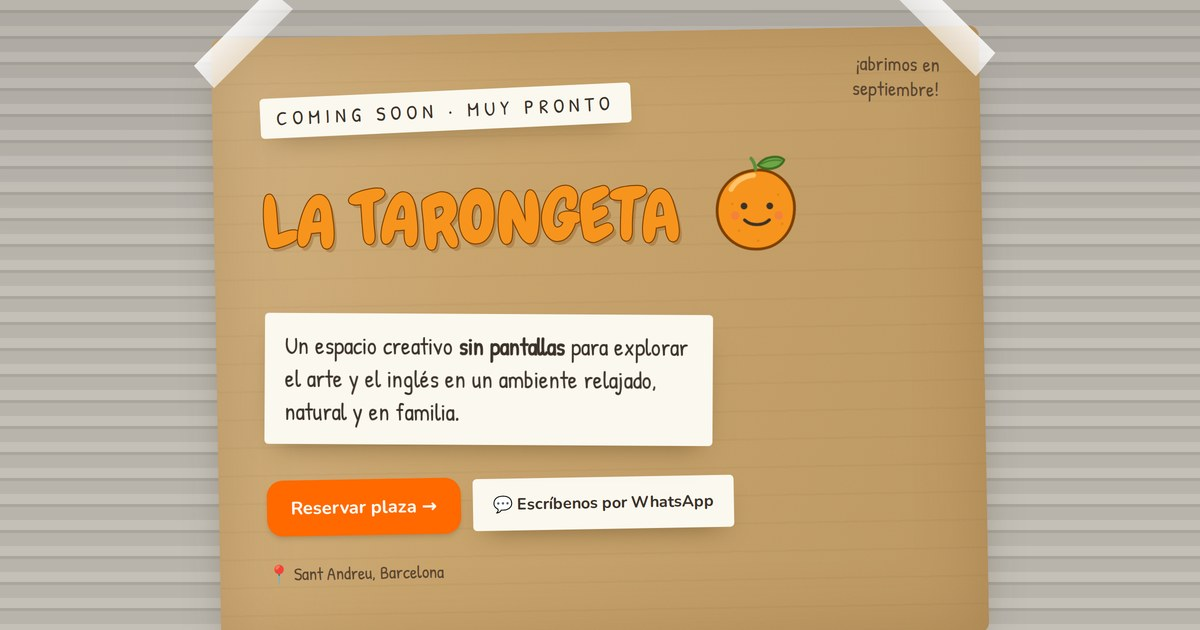
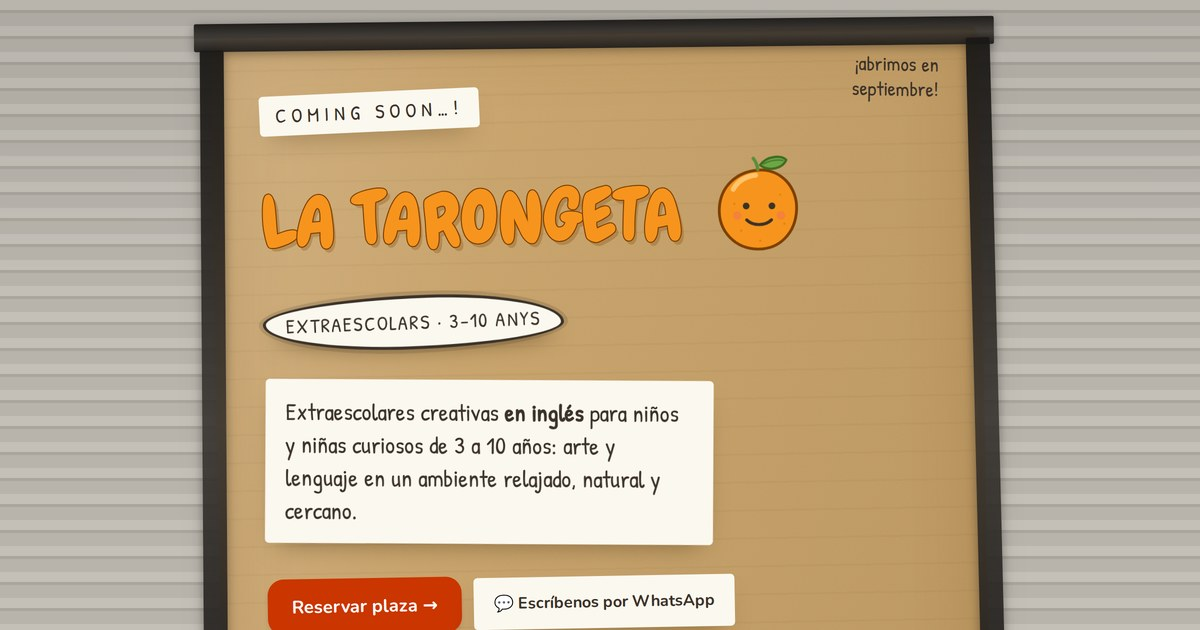
Align site with the real poster text and design
A legible photo of the sign corrects earlier guesses: La Tarongeta is a
process-based creative workshop (extraescolars, ages 3-10) and the sign
is bilingual English/Catalan. Update the four poster notes to the
verbatim EN/CA texts with lang attributes, drop the invented
"sin pantallas" claims, add the "Extraescolars 3-10 anys" cloud and the
black gaffer-tape frame from the real sign, swap in the new poster
photo, mention the founder, fix the form's age range to 3-10, and
refresh metadata and the OG image.

Claude-Session: https://claude.ai/code/session_01W1bpW2mJ2HdKfc9aUuqVCc

Changed region(s): [[0.1542, 0.0, 0.8633, 1.0]]

diff --git a/app/src/app/page.tsx b/app/src/app/page.tsx
@@ -94,14 +94,16 @@ function Hero() {
     <section className="shutter relative overflow-hidden">
       <div className="max-w-6xl mx-auto px-4 py-12 sm:py-20 flex justify-center">
         <div className="cardboard relative w-full max-w-3xl px-5 py-10 sm:px-12 sm:py-14 -rotate-1">
-          {/* packing tape on the corners */}
-          <div aria-hidden className="tape absolute -top-4 -left-6 w-28 h-8 -rotate-45" />
-          <div aria-hidden className="tape absolute -top-4 -right-6 w-28 h-8 rotate-45" />
+          {/* black gaffer tape framing the sign, like the real one */}
+          <div aria-hidden className="tape-black absolute -top-3 -left-4 -right-4 h-7 rotate-[0.4deg]" />
+          <div aria-hidden className="tape-black absolute -bottom-3 -left-4 -right-4 h-7 -rotate-[0.5deg]" />
+          <div aria-hidden className="tape-black absolute -left-3.5 top-3 bottom-3 w-6 rotate-[0.6deg]" />
+          <div aria-hidden className="tape-black absolute -right-3.5 top-3 bottom-3 w-6 -rotate-[0.4deg]" />
 
           {/* COMING SOON strip */}
           <div className="paper-note tilt-l inline-block px-3 sm:px-4 py-1.5">
             <p className="font-hand text-base sm:text-xl tracking-[0.18em] sm:tracking-[0.25em] uppercase whitespace-nowrap">
-              Coming soon · Muy pronto
+              Coming soon…!
             </p>
           </div>
 
@@ -134,12 +136,20 @@ function Hero() {
             <TarongetaMascot className="mascot-bob w-16 sm:w-28 shrink-0" />
           </div>
 
+          {/* extraescolars cloud, like the scribbled bubble on the sign */}
+          <p
+            lang="ca"
+            className="cloud-note font-hand inline-block mt-5 px-5 py-2.5 text-lg sm:text-xl uppercase tracking-[0.08em] -rotate-1"
+          >
+            Extraescolars · 3–10 anys
+          </p>
+
           {/* subtitle note */}
-          <div className="paper-note tilt-r max-w-md mt-8 sm:mt-10 px-5 py-4">
+          <div className="paper-note tilt-r max-w-md mt-6 sm:mt-8 px-5 py-4">
             <p className="font-hand text-xl sm:text-2xl leading-snug">
-              Un espacio creativo <strong>sin pantallas</strong> para explorar
-              el arte y el inglés en un ambiente relajado, natural y en
-              familia.
+              Extraescolares creativas <strong>en inglés</strong> para niños y
+              niñas curiosos de 3 a 10 años: arte y lenguaje en un ambiente
+              relajado, natural y cercano.
             </p>
           </div>
 
@@ -181,21 +191,23 @@ function PosterNotes() {
 
       <div className="grid md:grid-cols-[1fr_auto] gap-10 items-center">
         <div className="grid sm:grid-cols-2 gap-5">
-          <PosterNote>
-            A screen-free creative space where kids can explore art and
-            English in a relaxed, natural, English-speaking environment.
+          <PosterNote lang="en">
+            A process-based creative workshop space for curious kids to
+            explore art and language in a relaxed, natural, English-speaking
+            environment.
           </PosterNote>
-          <PosterNote yellow tiltClass="tilt-r">
-            Un espacio creativo sin pantallas donde los peques exploran el
-            arte y el inglés en un ambiente relajado, natural y cercano.
+          <PosterNote orange lang="ca" tiltClass="tilt-r">
+            Un espai creatiu basat en processos artístics perquè les
+            criatures curioses puguin explorar l&apos;art i el llenguatge en
+            un entorn relaxat, natural i de parla anglesa.
           </PosterNote>
-          <PosterNote tiltClass="tilt-r2">
-            Grupos reducidos acompañados con cariño: pintura, manualidades,
-            cuentos y mucho juego con materiales naturales.
+          <PosterNote lang="en" tiltClass="tilt-r2">
+            ✳ Opening in Sept ✳ Founded by native English-speaker,
+            experienced teacher, and practicing artist.
           </PosterNote>
-          <PosterNote yellow tiltClass="tilt-l2">
-            Tardes de lunes, miércoles y viernes en Sant Andreu. Reserva
-            fácil con Bizum y confirmación por WhatsApp.
+          <PosterNote orange lang="ca" tiltClass="tilt-l2">
+            Fundada el 2026 per una parlant nadiua d&apos;anglès, mestra
+            d&apos;infantil i artista.
           </PosterNote>
         </div>
 
@@ -219,19 +231,23 @@ function PosterNotes() {
 
 function PosterNote({
   children,
-  yellow = false,
+  orange = false,
+  lang,
   tiltClass = "tilt-l",
 }: {
   children: React.ReactNode;
-  yellow?: boolean;
+  orange?: boolean;
+  lang?: string;
   tiltClass?: string;
 }) {
   return (
     <div
-      className={`paper-note ${yellow ? "paper-note--yellow" : ""} ${tiltClass} relative px-5 py-5`}
+      className={`paper-note ${orange ? "paper-note--orange" : ""} ${tiltClass} relative px-5 py-5`}
     >
       <div aria-hidden className="tape absolute -top-3 left-1/2 -translate-x-1/2 w-16 h-5 rotate-2" />
-      <p className="font-hand text-lg sm:text-xl leading-snug">{children}</p>
+      <p lang={lang} className="font-hand text-lg sm:text-xl leading-snug">
+        {children}
+      </p>
     </div>
   );
 }
@@ -250,9 +266,9 @@ const ACTIVITIES = [
     text: "El inglés se vive jugando, cantando y creando, sin fichas ni exámenes.",
   },
   {
-    emoji: "🌿",
-    title: "Juego sin pantallas",
-    text: "Materiales naturales, juego libre y tiempo sin prisas ni móviles.",
+    emoji: "🖐",
+    title: "Proceso, no producto",
+    text: "Importa explorar, probar y mancharse las manos; el resultado es lo de menos.",
   },
   {
     emoji: "🧡",
@@ -406,6 +422,10 @@ function Visit() {
             <strong>Sant Andreu, Barcelona</strong>, con muchas ganas de abrir
             las puertas en septiembre.
           </p>
+          <p className="leading-relaxed mb-3">
+            Al frente está su fundadora: hablante nativa de inglés, maestra
+            de infantil con experiencia y artista en activo.
+          </p>
           <p className="leading-relaxed mb-6">
             ¿Quieres la dirección exacta, resolver dudas o simplemente
             saludar? Escríbenos y te contestamos enseguida.
@@ -433,7 +453,7 @@ function SiteFooter() {
         <div>
           <p className="font-display text-2xl text-orange-400">La Tarongeta</p>
           <p className="font-hand text-lg mt-1">
-            Espacio creativo en inglés
+            Extraescolares creativas en inglés · 3–10 años
             <br />
             Sant Andreu, Barcelona
           </p>

diff --git a/app/src/app/layout.tsx b/app/src/app/layout.tsx
@@ -29,15 +29,15 @@ const SITE_URL = "https://yaqtin.net/la-tarongeta";
 export const metadata: Metadata = {
   metadataBase: new URL(SITE_URL),
   title: {
-    default: "La Tarongeta · Espacio creativo en inglés para niños",
+    default: "La Tarongeta · Extraescolares creativas en inglés",
     template: "%s · La Tarongeta",
   },
   description:
-    "La Tarongeta es un espacio creativo sin pantallas en Sant Andreu, Barcelona: arte, juego e inglés en un ambiente relajado y natural. ¡Abrimos en septiembre!",
+    "La Tarongeta: extraescolares creativas en inglés en Sant Andreu, Barcelona. Talleres de arte basados en el proceso para niños y niñas curiosos de 3 a 10 años. ¡Abrimos en septiembre!",
   openGraph: {
-    title: "La Tarongeta · Espacio creativo en inglés para niños",
+    title: "La Tarongeta · Extraescolares creativas en inglés",
     description:
-      "Espacio creativo sin pantallas en Sant Andreu, Barcelona: arte, juego e inglés en un ambiente relajado y natural.",
+      "Extraescolares creativas en inglés en Sant Andreu, Barcelona: arte y lenguaje para peques de 3 a 10 años, en un ambiente relajado y natural.",
     url: SITE_URL,
     siteName: "La Tarongeta",
     images: [

diff --git a/app/src/app/reserva/page.tsx b/app/src/app/reserva/page.tsx
@@ -45,10 +45,10 @@ function validate(data: FormData): FormErrors {
   if (
     !data.childAge ||
     isNaN(Number(data.childAge)) ||
-    Number(data.childAge) < 1 ||
-    Number(data.childAge) > 17
+    Number(data.childAge) < 3 ||
+    Number(data.childAge) > 10
   ) {
-    errors.childAge = "Por favor, indica una edad válida (1–17 años).";
+    errors.childAge = "Por favor, indica una edad válida (3–10 años).";
   }
   if (!data.phone.trim()) {
     errors.phone = "Por favor, indica un teléfono de contacto.";
@@ -250,12 +250,12 @@ export default function ReservaPage() {
                   required
                   type="number"
                   placeholder="7"
-                  min="1"
-                  max="17"
+                  min="3"
+                  max="10"
                   value={form.childAge}
                   onChange={(v) => handleChange("childAge", v)}
                   error={errors.childAge}
-                  hint="Entre 1 y 17 años"
+                  hint="Entre 3 y 10 años"
                 />
               </div>
             </section>

diff --git a/app/src/app/globals.css b/app/src/app/globals.css
@@ -11,7 +11,7 @@
   --cardboard: #c9a36a;
   --cardboard-dark: #a9834e;
   --paper: #fbf8ef;
-  --paper-yellow: #ffcf3d;
+  --paper-orange: #ff8a1f;
   --ink: #3b3229;
   --naranja: #f7941d;
   --naranja-dark: #d97706;
@@ -91,8 +91,31 @@ input[type="number"] {
   border-radius: 4px;
   box-shadow: 0 12px 26px -14px rgba(60, 40, 10, 0.55);
 }
-.paper-note--yellow {
-  background: var(--paper-yellow);
+.paper-note--orange {
+  background: var(--paper-orange);
+  color: #7c2d12;
+}
+
+/* Black gaffer tape framing the sign, like the real one */
+.tape-black {
+  background: linear-gradient(
+    180deg,
+    rgba(26, 24, 22, 0.95),
+    rgba(52, 48, 44, 0.88) 55%,
+    rgba(30, 28, 26, 0.94)
+  );
+  box-shadow: 0 2px 10px rgba(0, 0, 0, 0.35);
+  border-radius: 2px;
+}
+
+/* Scribbled cloud bubble ("extraescolars 3–10 anys") */
+.cloud-note {
+  background: var(--paper);
+  border: 3px solid var(--ink);
+  border-radius: 55% 45% 52% 48% / 46% 58% 42% 54%;
+  box-shadow:
+    0 10px 22px -12px rgba(60, 40, 10, 0.5),
+    0 0 0 4px rgba(59, 50, 41, 0.16);
 }
 
 .tilt-l {

diff --git a/app/src/app/reserva/layout.tsx b/app/src/app/reserva/layout.tsx
@@ -3,7 +3,7 @@ import type { Metadata } from "next";
 export const metadata: Metadata = {
   title: "Reserva tu plaza",
   description:
-    "Reserva una plaza para tu peque en La Tarongeta, espacio creativo en inglés en Sant Andreu, Barcelona. Reserva fácil con Bizum y confirmación por WhatsApp.",
+    "Reserva una plaza para tu peque en La Tarongeta, extraescolares creativas en inglés (3–10 años) en Sant Andreu, Barcelona. Reserva fácil con Bizum y confirmación por WhatsApp.",
 };
 
 export default function ReservaLayout({

diff --git a/README.md b/README.md
@@ -1,9 +1,11 @@
 # La Tarongeta
 
-Sitio web de **La Tarongeta**, un espacio creativo sin pantallas en Sant
-Andreu (Barcelona) donde los peques exploran el arte y el inglés en un
-ambiente relajado y natural. El diseño de la portada recrea el cartel de
-cartón hecho a mano que anuncia la apertura en el local.
+Sitio web de **La Tarongeta**, extraescolares creativas en inglés en Sant
+Andreu (Barcelona): un espacio de talleres basado en el proceso donde
+niños y niñas curiosos de 3 a 10 años exploran el arte y el lenguaje en un
+ambiente relajado, natural y de habla inglesa. El diseño de la portada
+recrea el cartel de cartón hecho a mano (inglés/catalán) que anuncia la
+apertura en el local.
 
 ## Estructura
 
